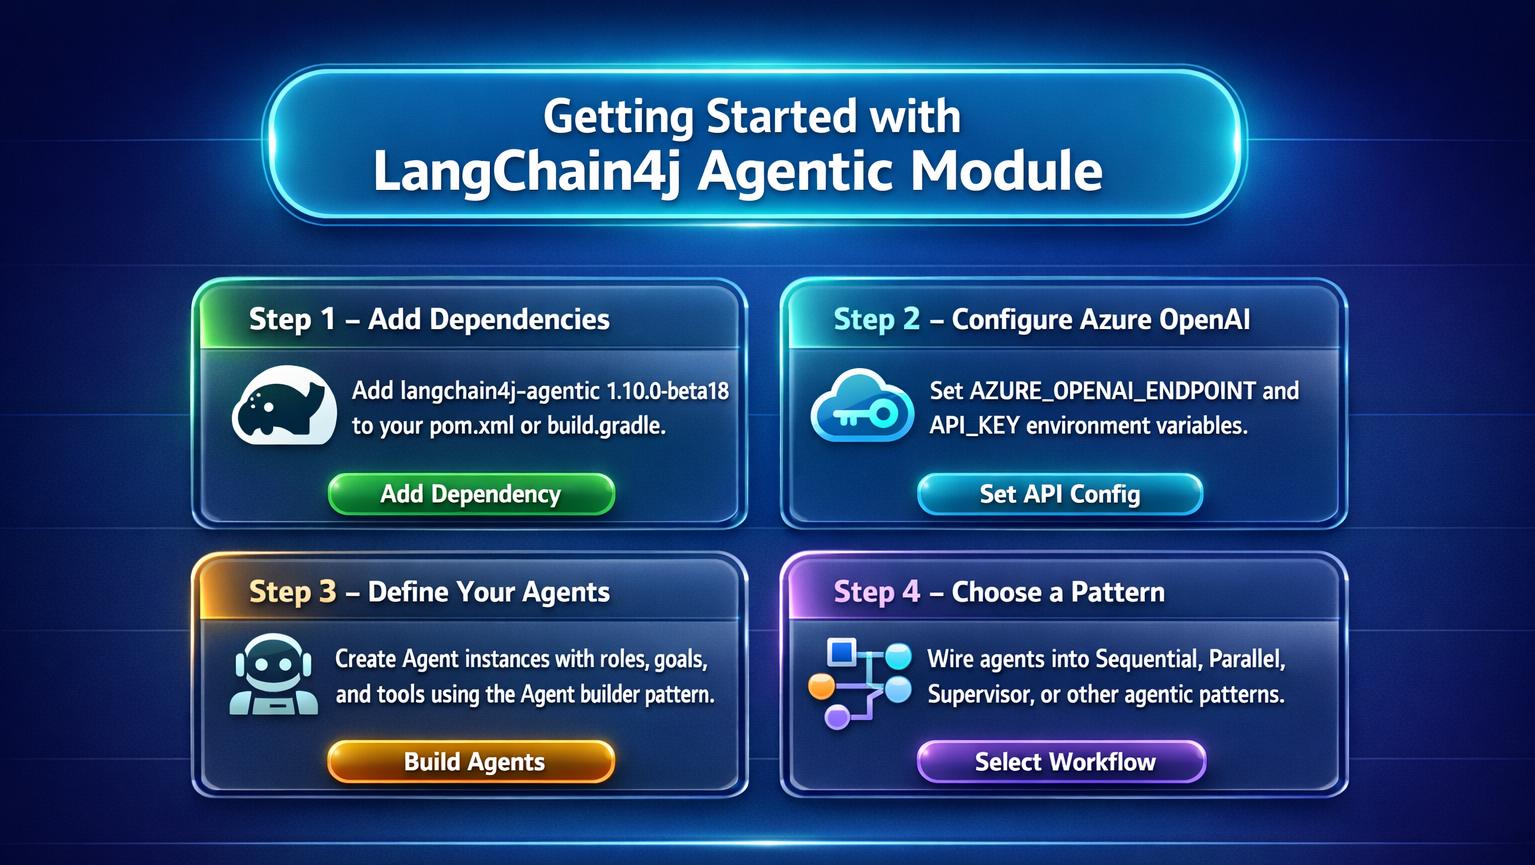
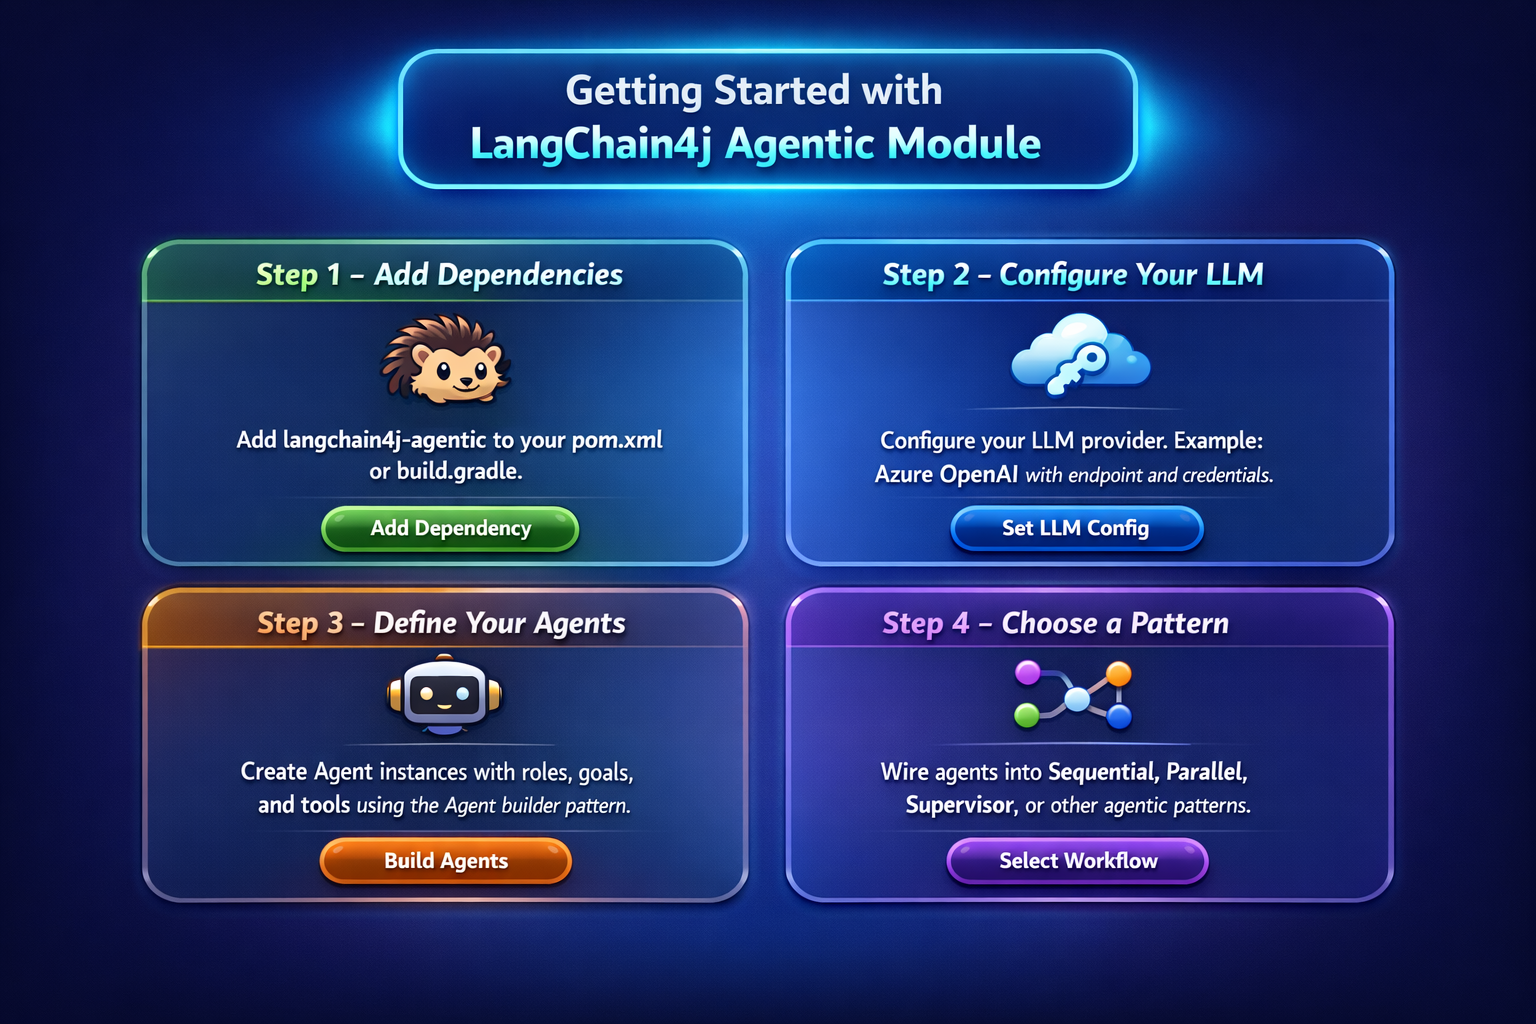
fix: update dependencies to version 1.12.2 and improve README instructions for LLM configuration

diff --git a/README.md b/README.md
@@ -457,12 +457,12 @@ String hypothesis = scope.readState("hypothesis", "");
 
 ## Getting Started
 
-<img src="docs/getting-started-agentic.png" alt="Getting Started with LangChain4j Agentic Module — 4 steps: Add Dependencies, Configure Azure OpenAI, Define Your Agents, Choose a Pattern" width="800"/>
+<img src="docs/getting-started-agentic.png" alt="Getting Started with LangChain4j Agentic Module — 4 steps: Add Dependencies, Configure Your LLM, Define Your Agents, Choose a Pattern" width="800"/>
 
 Getting up and running with the LangChain4j Agentic module takes just **4 steps**:
 
-1. **Add Dependencies** — Add `langchain4j-agentic` (1.10.0-beta18) to your `pom.xml` or `build.gradle`. This module provides the agent builders, `AgenticScope`, and pattern orchestration APIs.
-2. **Configure Azure OpenAI** — Set `AZURE_OPENAI_ENDPOINT`, `AZURE_OPENAI_API_KEY`, and `AZURE_OPENAI_DEPLOYMENT` as environment variables (or in a `.env` file). These connect your agents to the LLM backend.
+1. **Add Dependencies** — Add `langchain4j-agentic` to your `pom.xml` or `build.gradle`. This module provides the agent builders, `AgenticScope`, and pattern orchestration APIs.
+2. **Configure Your LLM** — Configure your LLM provider. For example, with Azure OpenAI set `AZURE_OPENAI_ENDPOINT`, `AZURE_OPENAI_API_KEY`, and `AZURE_OPENAI_DEPLOYMENT` as environment variables (or in a `.env` file). These connect your agents to the LLM backend.
 3. **Define Your Agents** — Create agent instances with roles, goals, and tools using the `Agent` builder pattern. Each agent is a specialist with a focused responsibility.
 4. **Choose a Pattern** — Wire your agents into one of the 8 supported patterns (Sequential, Parallel, Loop, Conditional, Supervisor, Human-in-the-Loop, GOAP, or P2P) using `AgenticServices` builders.
 
